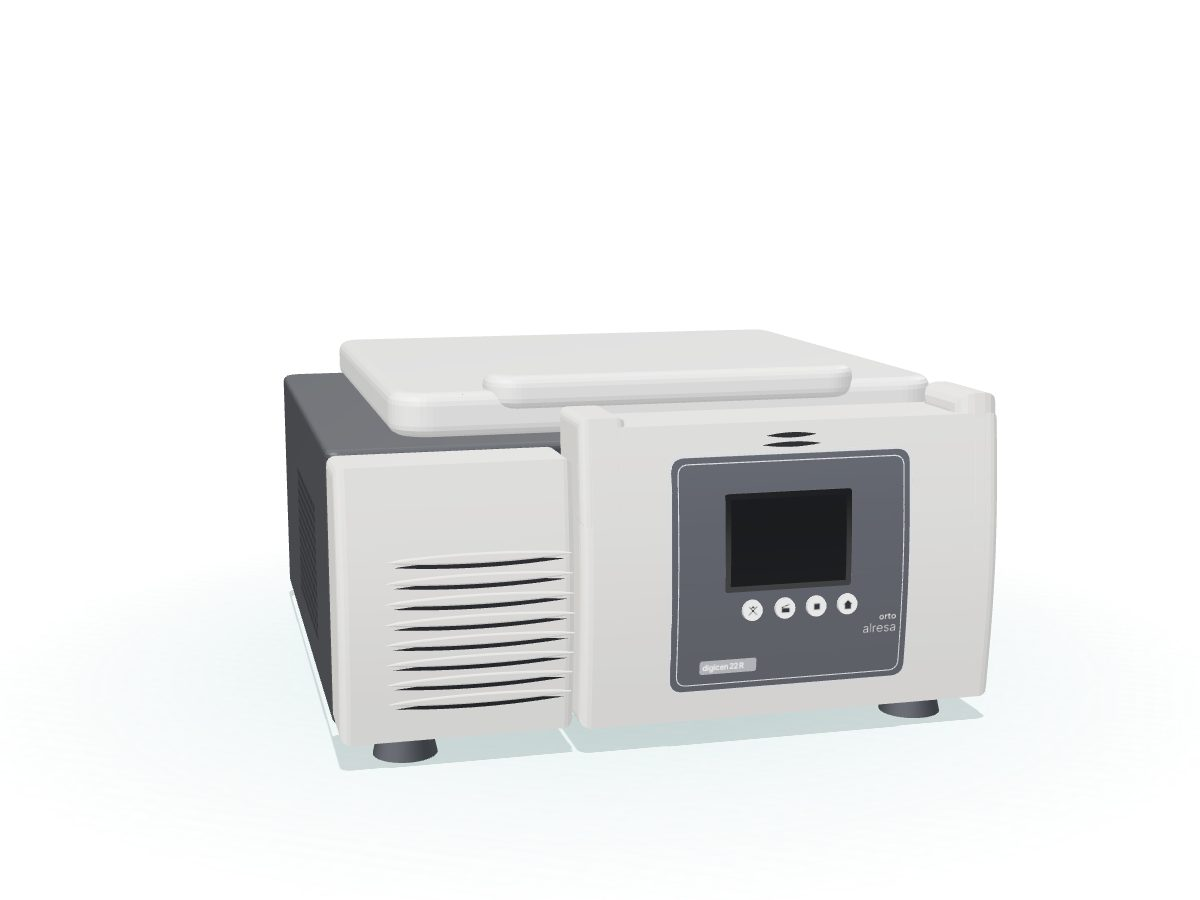
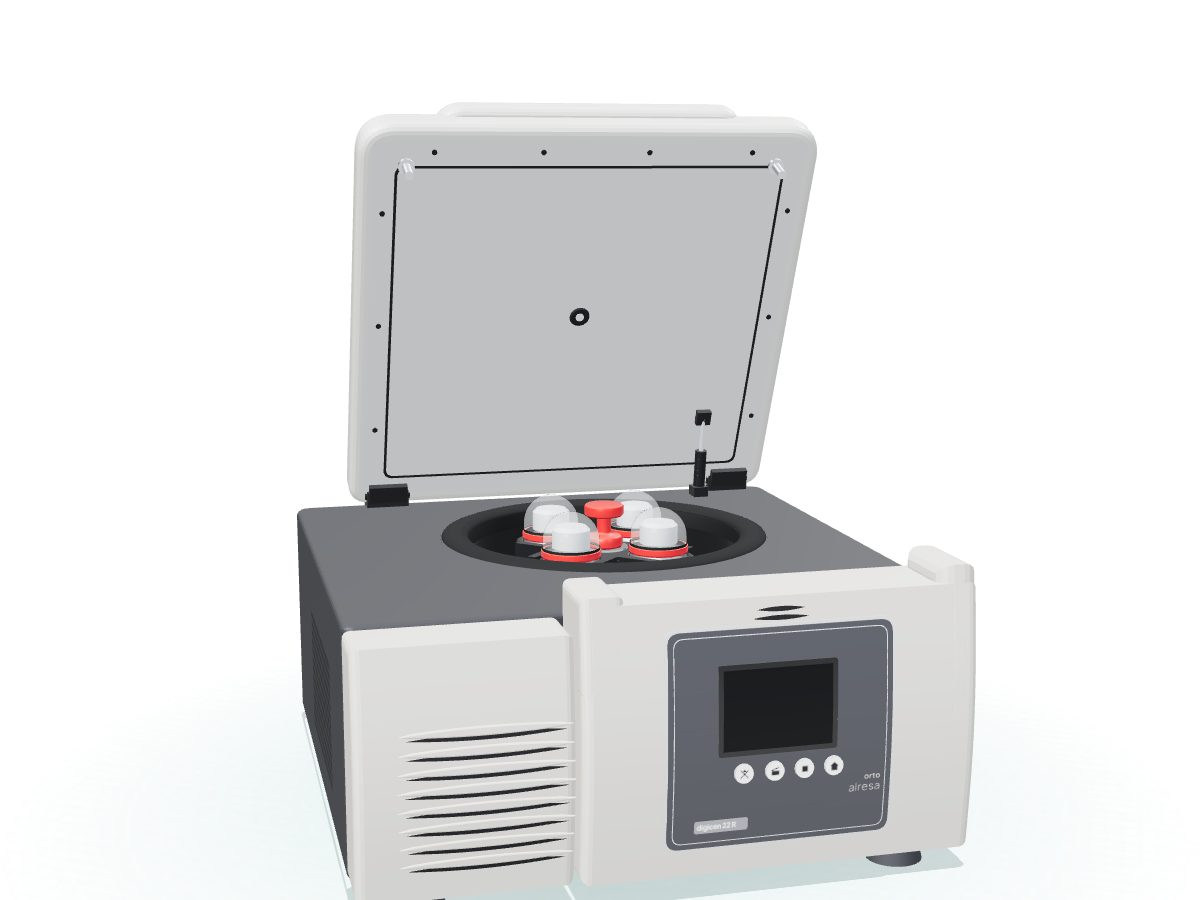
feat(web): machines on plain white; Digicen 22 R rests with the lid open
Owner: the coloured glow behind each machine has to go — the home hero, the
model-page 3D stage and the page intros now sit on plain white with the soft
shadow only (the closing band keeps its teal). The Digicen 22 R rests with
its lid open so the rotor, the owner's point, shows on the poster, cards and
menu; the general view frames the open lid. Poster, strip and thumb redrawn.

diff --git a/apps/web/src/lib/showroom/models/ortoalresa-digicen-22-r.ts b/apps/web/src/lib/showroom/models/ortoalresa-digicen-22-r.ts
@@ -31,9 +31,9 @@
  *   · Tapa ~524 × 492 mm, abre ~66°; dos pernos de cierre metálicos en las
  *     esquinas del borde libre, hoyuelo central, amortiguador junto a la bisagra.
  *
- * Comportamiento: tapa cerrada en reposo. Al «Centrifugar» la tapa se abre y el
+ * Comportamiento: tapa abierta en reposo (se ve el rotor). Al «Centrifugar» el
  * rotor gira (las cubetas se abren un poco con la velocidad); al detener, el
- * rotor frena y la tapa se cierra. `setLid` permite a la historia fijar la tapa.
+ * rotor frena. `setLid` permite a la historia fijar la tapa (abrirla o cerrarla).
  */
 import * as THREE from 'three';
 import type { BuiltModel } from '../types';
@@ -683,7 +683,7 @@ export function build(): DigicenModel {
   body.add(bodyAnchor);
 
   // ── estado ─────────────────────────────────────────────────────────────────
-  let lidOpen = 0;
+  let lidOpen = 1; // en reposo la tapa está abierta: el rotor es lo que el dueño quiere mostrar
   let lidOverride: number | null = null;
   let swing = 0;
   const ease = (x: number) => x * x * (3 - 2 * x);
@@ -696,9 +696,8 @@ export function build(): DigicenModel {
       rotor: { target: rotorAnchor, direction: new THREE.Vector3(-0.25, 1.15, 0.85), distance: 760 },
       lateral: { target: bodyAnchor, direction: new THREE.Vector3(-1, 0.32, 0.42), distance: 900 },
     },
-    // La vista general encuadra el equipo cerrado (reposo) con aire encima; abierta,
-    // la punta de la tapa (~710 mm) sale un poco del cuadro general.
-    frameTop: 420,
+    // La vista general encuadra el equipo con la tapa abierta (reposo), punta incluida (~710 mm).
+    frameTop: 740,
     frameMargin: 1.3,
     yaw: 0.56,
 
@@ -712,8 +711,8 @@ export function build(): DigicenModel {
     },
 
     update(dt: number, t: number, level: number) {
-      // tapa: abierta mientras está en marcha o el rotor aún gira
-      const want = lidOverride ?? (powered || level > 0.04 ? 1 : 0);
+      // tapa: abierta en reposo y en marcha (muestra el rotor); la historia puede fijarla
+      const want = lidOverride ?? 1;
       lidOpen += (want - lidOpen) * Math.min(1, dt * 2.4);
       if (Math.abs(want - lidOpen) < 1e-3) lidOpen = want;
       lid.rotation.x = -LID_ANGLE * ease(lidOpen);
